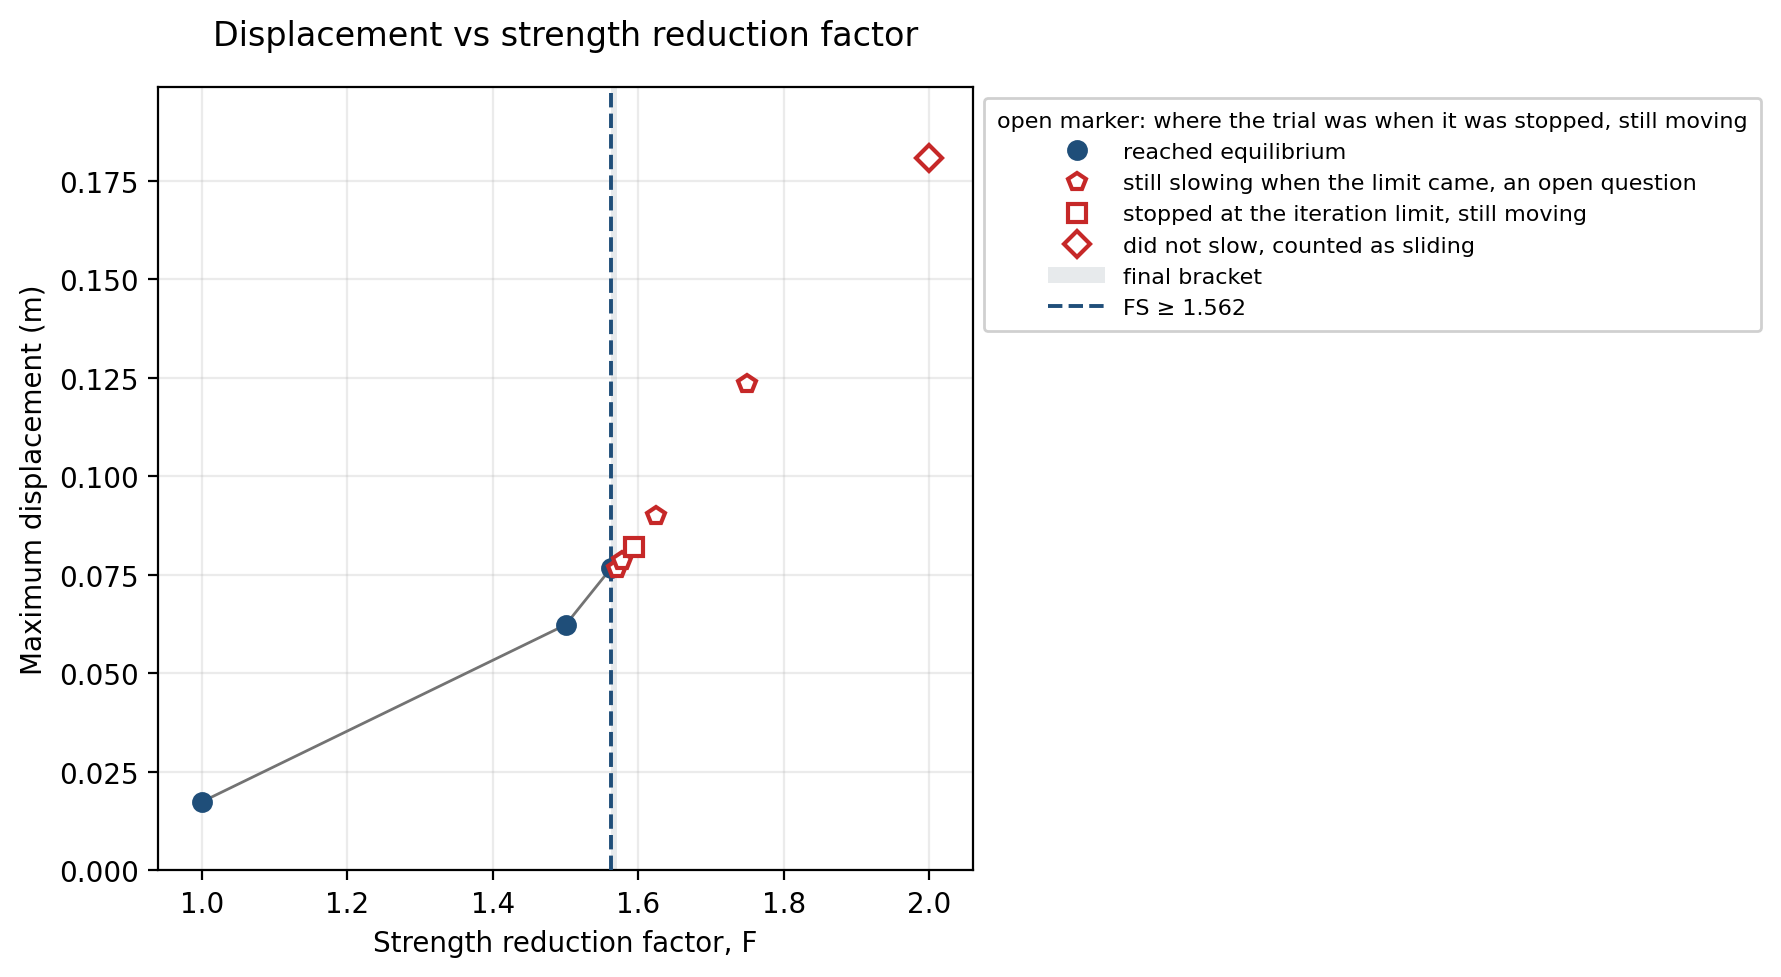
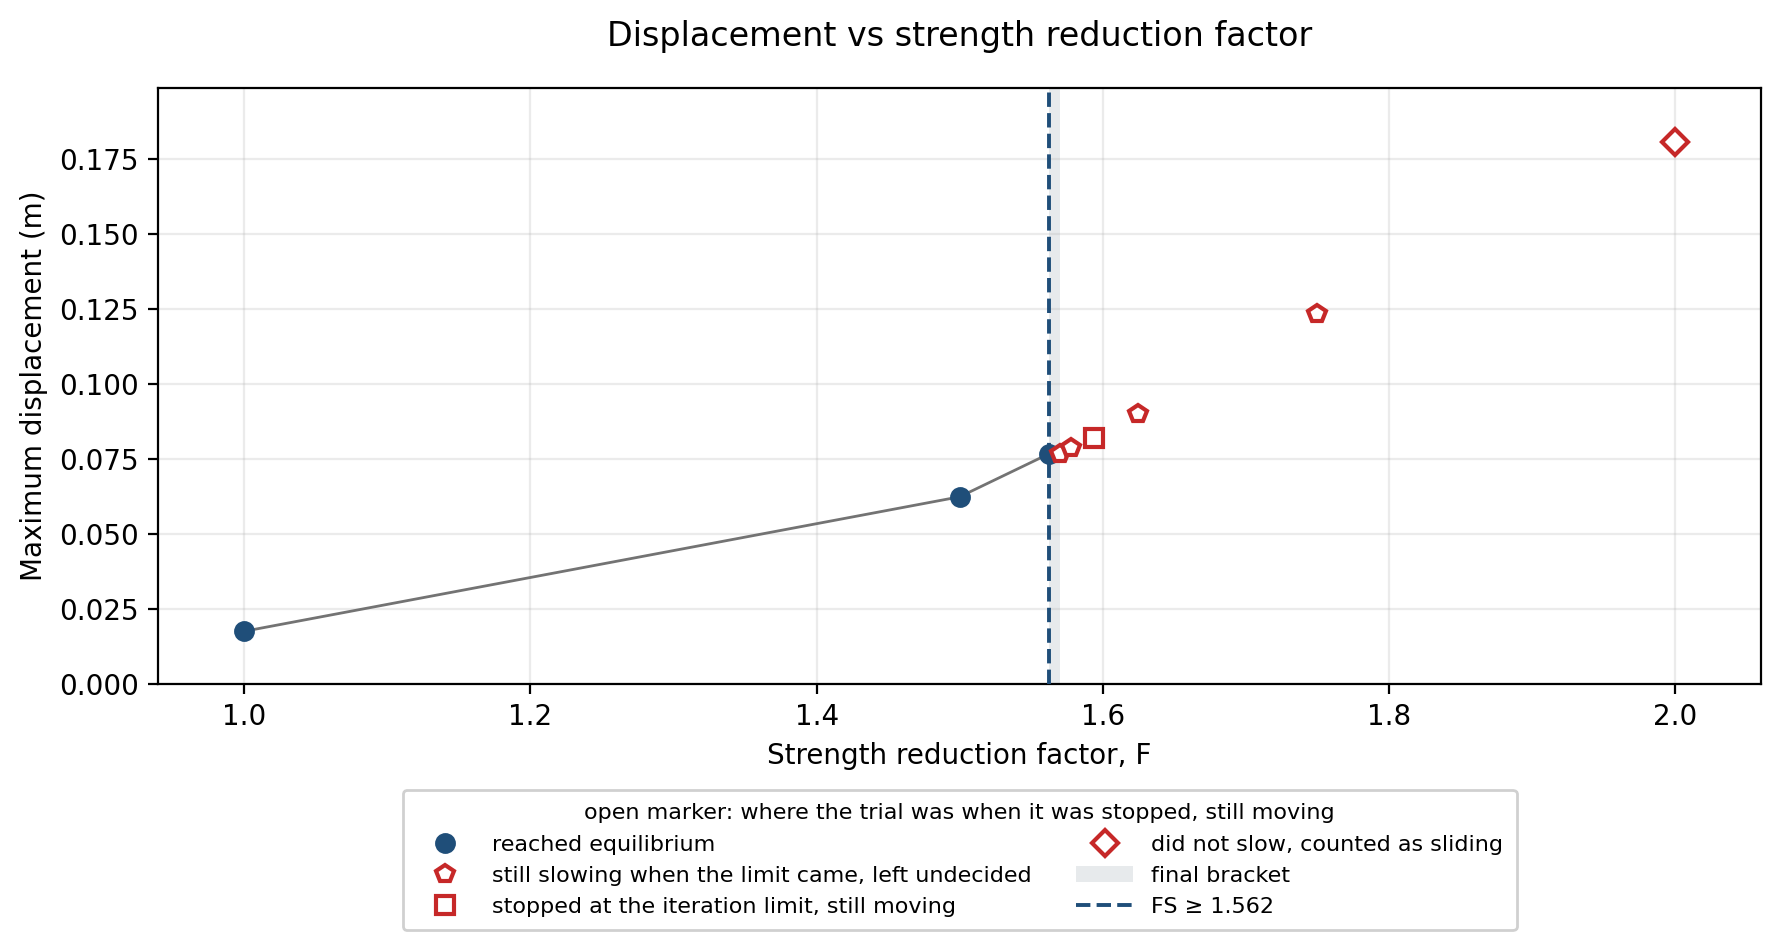
plot: the curve's key goes below the axes when no corner is clear, and names an undecided trial as such
Claude-Session: https://claude.ai/code/session_01XjjT2aBxw8gY7EFdpoUcpj

diff --git a/xslope/plot_fem.py b/xslope/plot_fem.py
@@ -3217,7 +3217,7 @@ _SSRM_CURVE_ENDINGS = {
     "displacement_limit": ("past the displacement limit", "^"),
     "steady_slip": ("sliding steadily on its joints", "D"),
     "not_slowing": ("did not slow, counted as sliding", "D"),
-    "inconclusive": ("still slowing when the limit came, an open question", "p"),
+    "inconclusive": ("still slowing when the limit came, left undecided", "p"),
     "yield_gate": ("settled outside the yield surface", "D"),
     "nonfinite": ("calculation stopped producing numbers", "X"),
 }
@@ -3283,8 +3283,8 @@ def ssrm_curve_unavailable(record):
 def _ssrm_curve_legend(ax, handles, labels, title):
     """The key, in the joint-slip panel's styling, in the first corner of the axes
     the drawing leaves empty — tested against the drawn points, the lines joining
-    them and the factor-of-safety rule — or outside the axes on the right where no
-    corner is clear."""
+    them and the factor-of-safety rule — or, where no corner is clear, in reserved
+    space below the axes, in two columns, so the plot keeps its full width."""
     from matplotlib.legend_handler import HandlerTuple
     style = dict(fontsize=8, frameon=True, framealpha=0.92, edgecolor="#cccccc",
                  borderpad=0.6, handlelength=2.6, title=title, title_fontsize=8,
@@ -3320,8 +3320,8 @@ def _ssrm_curve_legend(ax, handles, labels, title):
         if not np.any(inside):
             return leg
         leg.remove()
-    return ax.legend(handles, labels, loc="upper left", bbox_to_anchor=(1.0, 1.0),
-                     **style)
+    return ax.legend(handles, labels, loc="upper center", bbox_to_anchor=(0.5, -0.16),
+                     ncol=2, **style)
 
 
 def plot_ssrm_curve(ax, record, fs=None, final_interval=None, fem_data=None,
